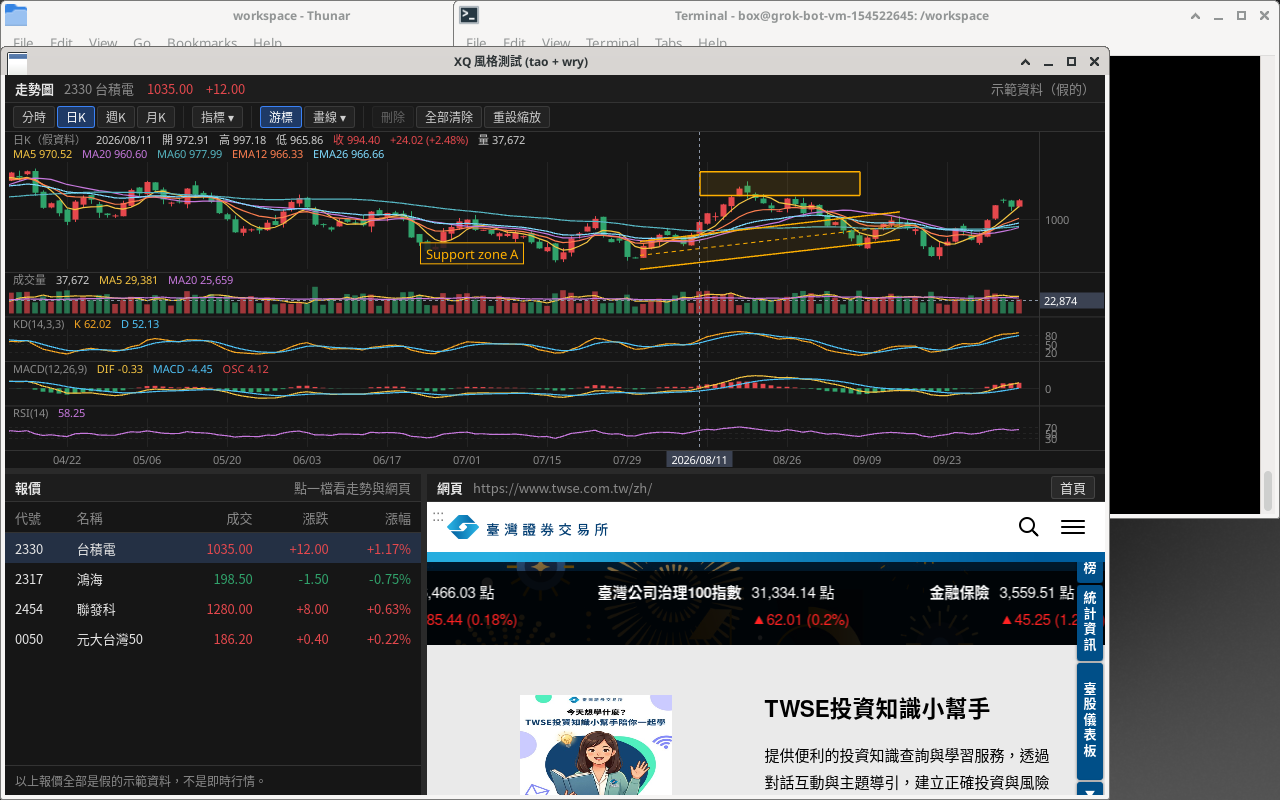
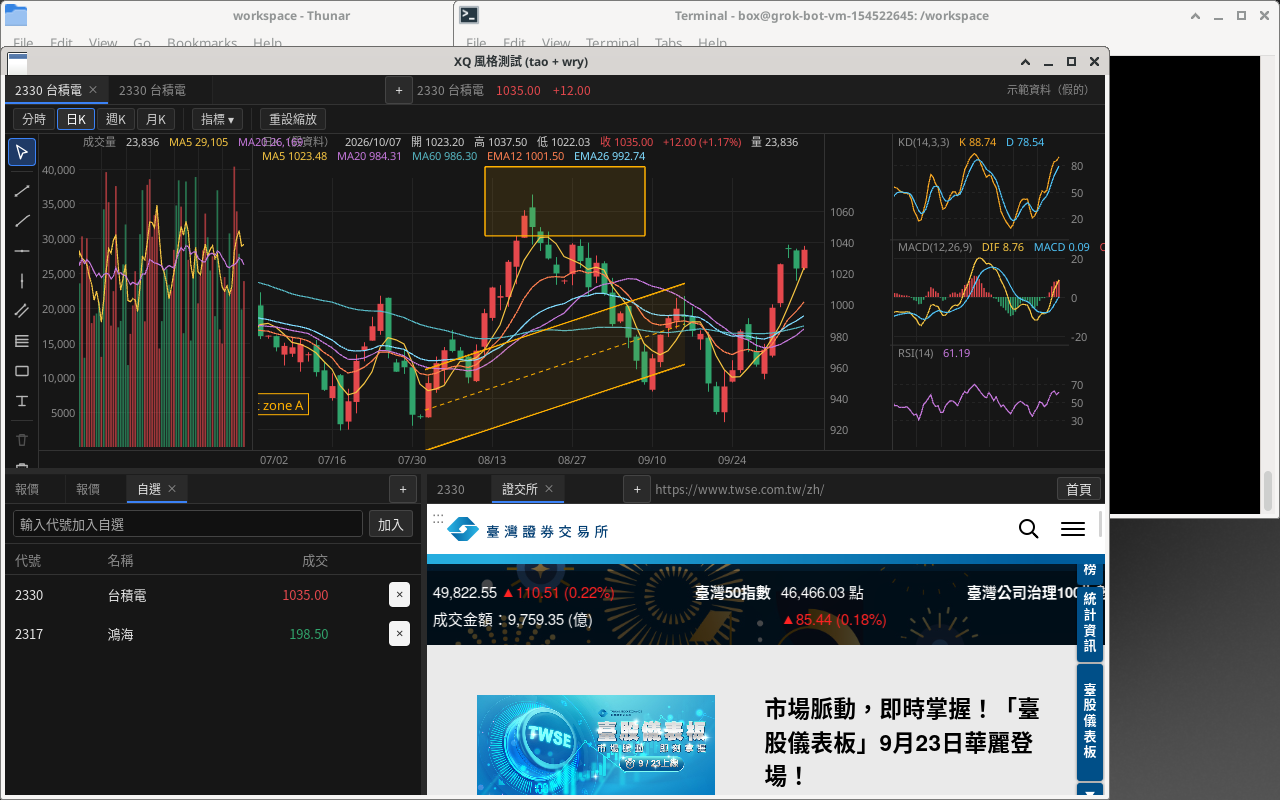
Docs: refresh Traditional Chinese README and screenshot
Cover tao+wry dual-webview architecture, per-pane tabs, Longbridge
draw rail, indicator caps, persistence, status bar, run notes, and
brief stress-test perf; replace stale docs screenshot.

diff --git a/README.md b/README.md
@@ -1,20 +1,76 @@
 # wry-xq-demo
 
-XQ 風格的測試程式：Rust（tao + wry）開視窗，畫面用 HTML/JS 畫。
-
-- 上方：技術分析圖（分時／日K／週K／月K、均線、EMA、布林、SAR、KD、MACD、RSI、威廉、DMI、ATR、OBV，畫線工具含黃金分割）
-- 左下：報價（假的示範資料）
-- 右下：真正的網頁（子 webview，跟著分割線移動）
-- 分割線可拖拉；畫線與指標設定會存檔
+XQ 風格桌面示範：Rust（**tao** 視窗 + **wry** WebView）開原生視窗，畫面以 HTML／CSS／JS 繪製。
 
 ![screenshot](docs/screenshot.png)
 
+## 架構（tao + wry）
+
+- **主 WebView**：鋪滿視窗，負責三格版面、走勢圖 Canvas、報價／自選／記事、分割線與狀態列。
+- **子 WebView**：疊在右下格，載入**真實網站**（不受 `X-Frame-Options` 限制）。JS 以 `ipc` 回報格位像素，Rust 呼叫 `set_bounds` 跟著分割線移動。
+- Linux 主畫面走 GTK 嵌入；右下子 WebView 仍為 X11 子視窗（**僅支援 X11**，Wayland 不行）。Windows／macOS 兩個 WebView 皆為視窗子元件。
+
+## 三格版面與分頁
+
+| 區塊 | 分頁 |
+|------|------|
+| **上** 走勢圖 | 獨立圖表分頁，軟上限 **16**；各分頁自有代號／週期／畫線／指標（鍵：`tabId\|symbol\|period`） |
+| **左下** | **報價**、**自選**、**記事**（可多開） |
+| **右下** 網頁 | 多個網頁分頁共用同一個子 WebView；切換時載入該分頁記住的網址 |
+
+分割線可水平／垂直拖拉；點報價可同步上方圖表與右下網頁。
+
+## 畫線工具列（Longbridge 風格）
+
+走勢圖左側常駐垂直工具列（`draw-rail`）：游標、趨勢線、射線、水平／垂直線、平行通道、費波納契回撤、矩形、文字註記，以及刪除／全部清除。作用中工具會高亮；週期與「指標」仍在上方工具列。
+
+## 技術指標
+
+- **主圖疊加**（overlays）：最多 **20** 組實例，可重複同類型不同參數 — MA、EMA、布林、SAR。
+- **副圖**：最多 **10** 格，可設左欄／右欄數量（主圖置中）；指標含成交量、KD、MACD、RSI、威廉、DMI、ATR、OBV。
+- 週期：分時／日 K／週 K／月 K。
+
+## 畫線與持久化
+
+畫線與指標、分頁、自選、記事等寫入 `window.XQ_STATE`，經 ipc `{type:"save"}` 由 Rust 存成 JSON：
+
+- Windows：`%APPDATA%\wry-xq-demo\state.json`
+- macOS：`~/Library/Application Support/wry-xq-demo/state.json`
+- Linux：`$XDG_DATA_HOME/wry-xq-demo/state.json`（或 `~/.local/share/...`）
+
+下次啟動以初始化腳本注入（比 `localStorage` 可靠；WebView2 的 `with_html` 頁面為 `about:blank`）。
+
+## 狀態列
+
+視窗底部顯示 **記憶體**（主行程 + WebView／WebKit 子行程 RSS）、**JS 堆**（有則顯示）、**FPS**（獨立 rAF 計幀）。約每秒更新，**不走行情 tick 熱路徑**。
+
 ## 執行
 
-需要 Rust 1.88 以上。Windows 需 WebView2（Windows 10/11 內建）。Linux 需 WebKitGTK 4.1，嵌入網頁只支援 X11。
+需求：
 
-```
+- **Rust ≥ 1.88**（見 `Cargo.toml` 的 `rust-version`）
+- **Windows**：WebView2（Windows 10／11 多半內建）
+- **Linux**：WebKitGTK 4.1，嵌入網頁僅 **X11**
+- **macOS**：系統 WebKit
+
+```bash
 cargo run
+# 或
+cargo run --release
 ```
 
-報價與走勢都是假的示範資料，不是即時行情。
+選用環境變數：`XQ_DEBUG=1`（ipc 除錯）、`XQ_TAB_STRESS=1`（啟動後自動跑 16 分頁切換壓測）。
+
+報價與 K 線皆為**假的示範資料**，不是即時行情。
+
+## 效能備註（壓力測試摘要）
+
+測試環境：Linux WebKitGTK、無獨立 GPU（偏悲觀；Windows WebView2 + GPU 通常更快）。Canvas 2D。
+
+- **畫線快取**：靜態畫線離屏快取 + 空間索引 hitTest；混合 1000 筆工具重繪約 **15.5 ms → ~0.9 ms**。
+- **最重負載**（20 疊加、8 副圖、1000 畫線 + 高頻 tick）：連續 tick 約 **~38 FPS**；十字線+tick ~32 FPS；平移因重建畫線層較慢（~27 FPS）。輕量基準約 60 FPS；RSS 約 600–750 MB（含 WebKit）。
+- **16 走勢圖分頁**：切換先貼快照再延遲完整重繪；`paintFirst` 約 **3–4 ms**（p95），settle（含完整 render）約 **~57 ms**。另有 series LRU、平移 translate-cache、指標末棒增量更新等。
+
+## 儲存庫
+
+私人 GitHub 專案：[tina-moneydj/wry-xq-demo](https://github.com/tina-moneydj/wry-xq-demo)（需有權限才能 clone）。
